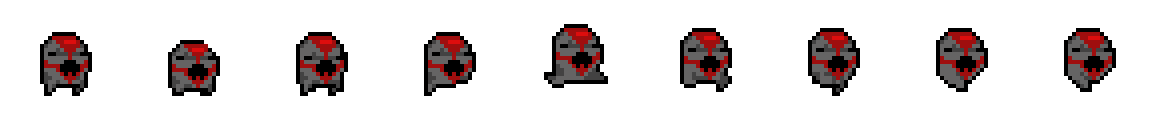
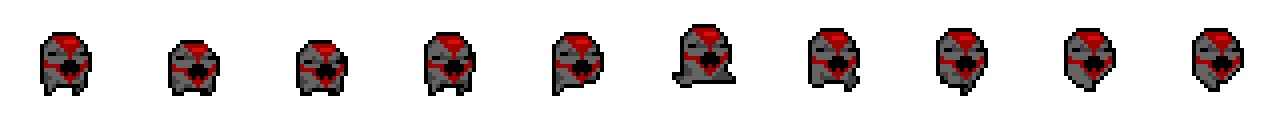
merging, added some form of AI

diff --git a/app/game/update.js b/app/game/update.js
@@ -21,6 +21,25 @@ function update() {
       weapon.scale.y = 0.5;
     }
   }
+  for (var i = 0; i < enemies.length; i++) {
+    if(player.x < enemies.getAt(i).body.x + 36 && player.x > enemies.getAt(i).body.x - 36 && player.y > enemies.getAt(i).body.y + 48 && player.y < enemies.getAt(i).body.y - 48){
+      enemies.getAt(i).isRunning = true;
+    }
+    if(enemies.getAt(i).isRunning === undefined || enemies.getAt(i).isRunning === false){
+      enemies.getAt(i).isRunning = false;
+      enemies.getAt(i).animations.play('idle', 10, true);
+    }
+    if(enemies.getAt(i).isRunning === true){
+      moveToPlayer(enemies.getAt(i));
+      if(enemies.getAt(i).x < player.x){
+        enemies.getAt(i).scale.x = 1;
+      }
+      else{
+        enemies.getAt(i).scale.x = -1;
+      }
+      enemies.getAt(i).animations.play('run', 10, true);
+    }
+  }
   if (game.input.keyboard.isDown(Phaser.KeyCode.ONE)) {
     weapon.kill();
     addWeapon('gun', 'gun');
@@ -48,7 +67,7 @@ function update() {
   }
   if (!cursors.down.isDown && !cursors.up.isDown && !cursors.right.isDown && !cursors.left.isDown) {
     // player.animations.stop();
-    player.animations.play('idle', 10, true)
+    player.animations.play('idle', 10, true);
     player.body.velocity.y = 0;
   }
   if (swung === true && swordEquipped) {

diff --git a/app/game/create.js b/app/game/create.js
@@ -35,12 +35,14 @@ function create() {
   enemies.enableBody = true;
   enemies.physicsBodyType = Phaser.Physics.ARCADE;
   enemies.setAll('checkWorldBounds', true);
-  enemies.createMultiple(30, 'enemy', 0, false);
   for (var i = 0; i < 20; i++) {
     enemy = enemies.create(game.world.randomX, game.world.randomY, 'enemy');
-    enemy.body.setSize(64, 64, 32, 32);
+    enemy.body.setSize(64, 64, 0, 0);
   }
-
+  enemies.setAll('anchor.x', 0.5);
+  enemies.setAll('anchor.y', 0.5);
+  enemies.callAll('animations.add', 'animations', 'idle', [0,1,2,3], true);
+  enemies.callAll('animations.add', 'animations', 'run', [4,5,6,7,8,9], true);
   player = game.add.sprite(100, game.world.height - 301, 'player');
   player.anchor.setTo(0.5, 0.5);
   game.physics.arcade.enable(player);
@@ -49,7 +51,6 @@ function create() {
   addWeapon('gun');
   game.camera.follow(player);
   //movement animations
-  var enemyIdle = player.animations.add('idle', [0, 1, 2, 3]);
   var run = player.animations.add('run', [4, 5, 6, 7, 8, 9]);
   var idle = player.animations.add('idle', [0, 1, 2, 3]);
   cursors = game.input.keyboard.createCursorKeys();

diff --git a/app/game/function.js b/app/game/function.js
@@ -66,6 +66,9 @@ function collisionDetection(projectile, enemy) {
 function processHandler(projectile, enemy) {
   return true;
 }
+function moveToPlayer(enemy){
+  game.physics.arcade.moveToObject(enemy, player, 60);
+}
 // Enemy = function(index, game, player, bullets) {
 //   var x = game.world.randomX;
 //   var y = game.world.randomY;

diff --git a/app/game/render.js b/app/game/render.js
@@ -1,3 +1,5 @@
 function render(){
-  game.debug.text(game.input.activePointer.position);
+  for(var i = 0; i < enemies.length; i++){
+    game.debug.body(enemies.getAt(i));
+  }
 }
